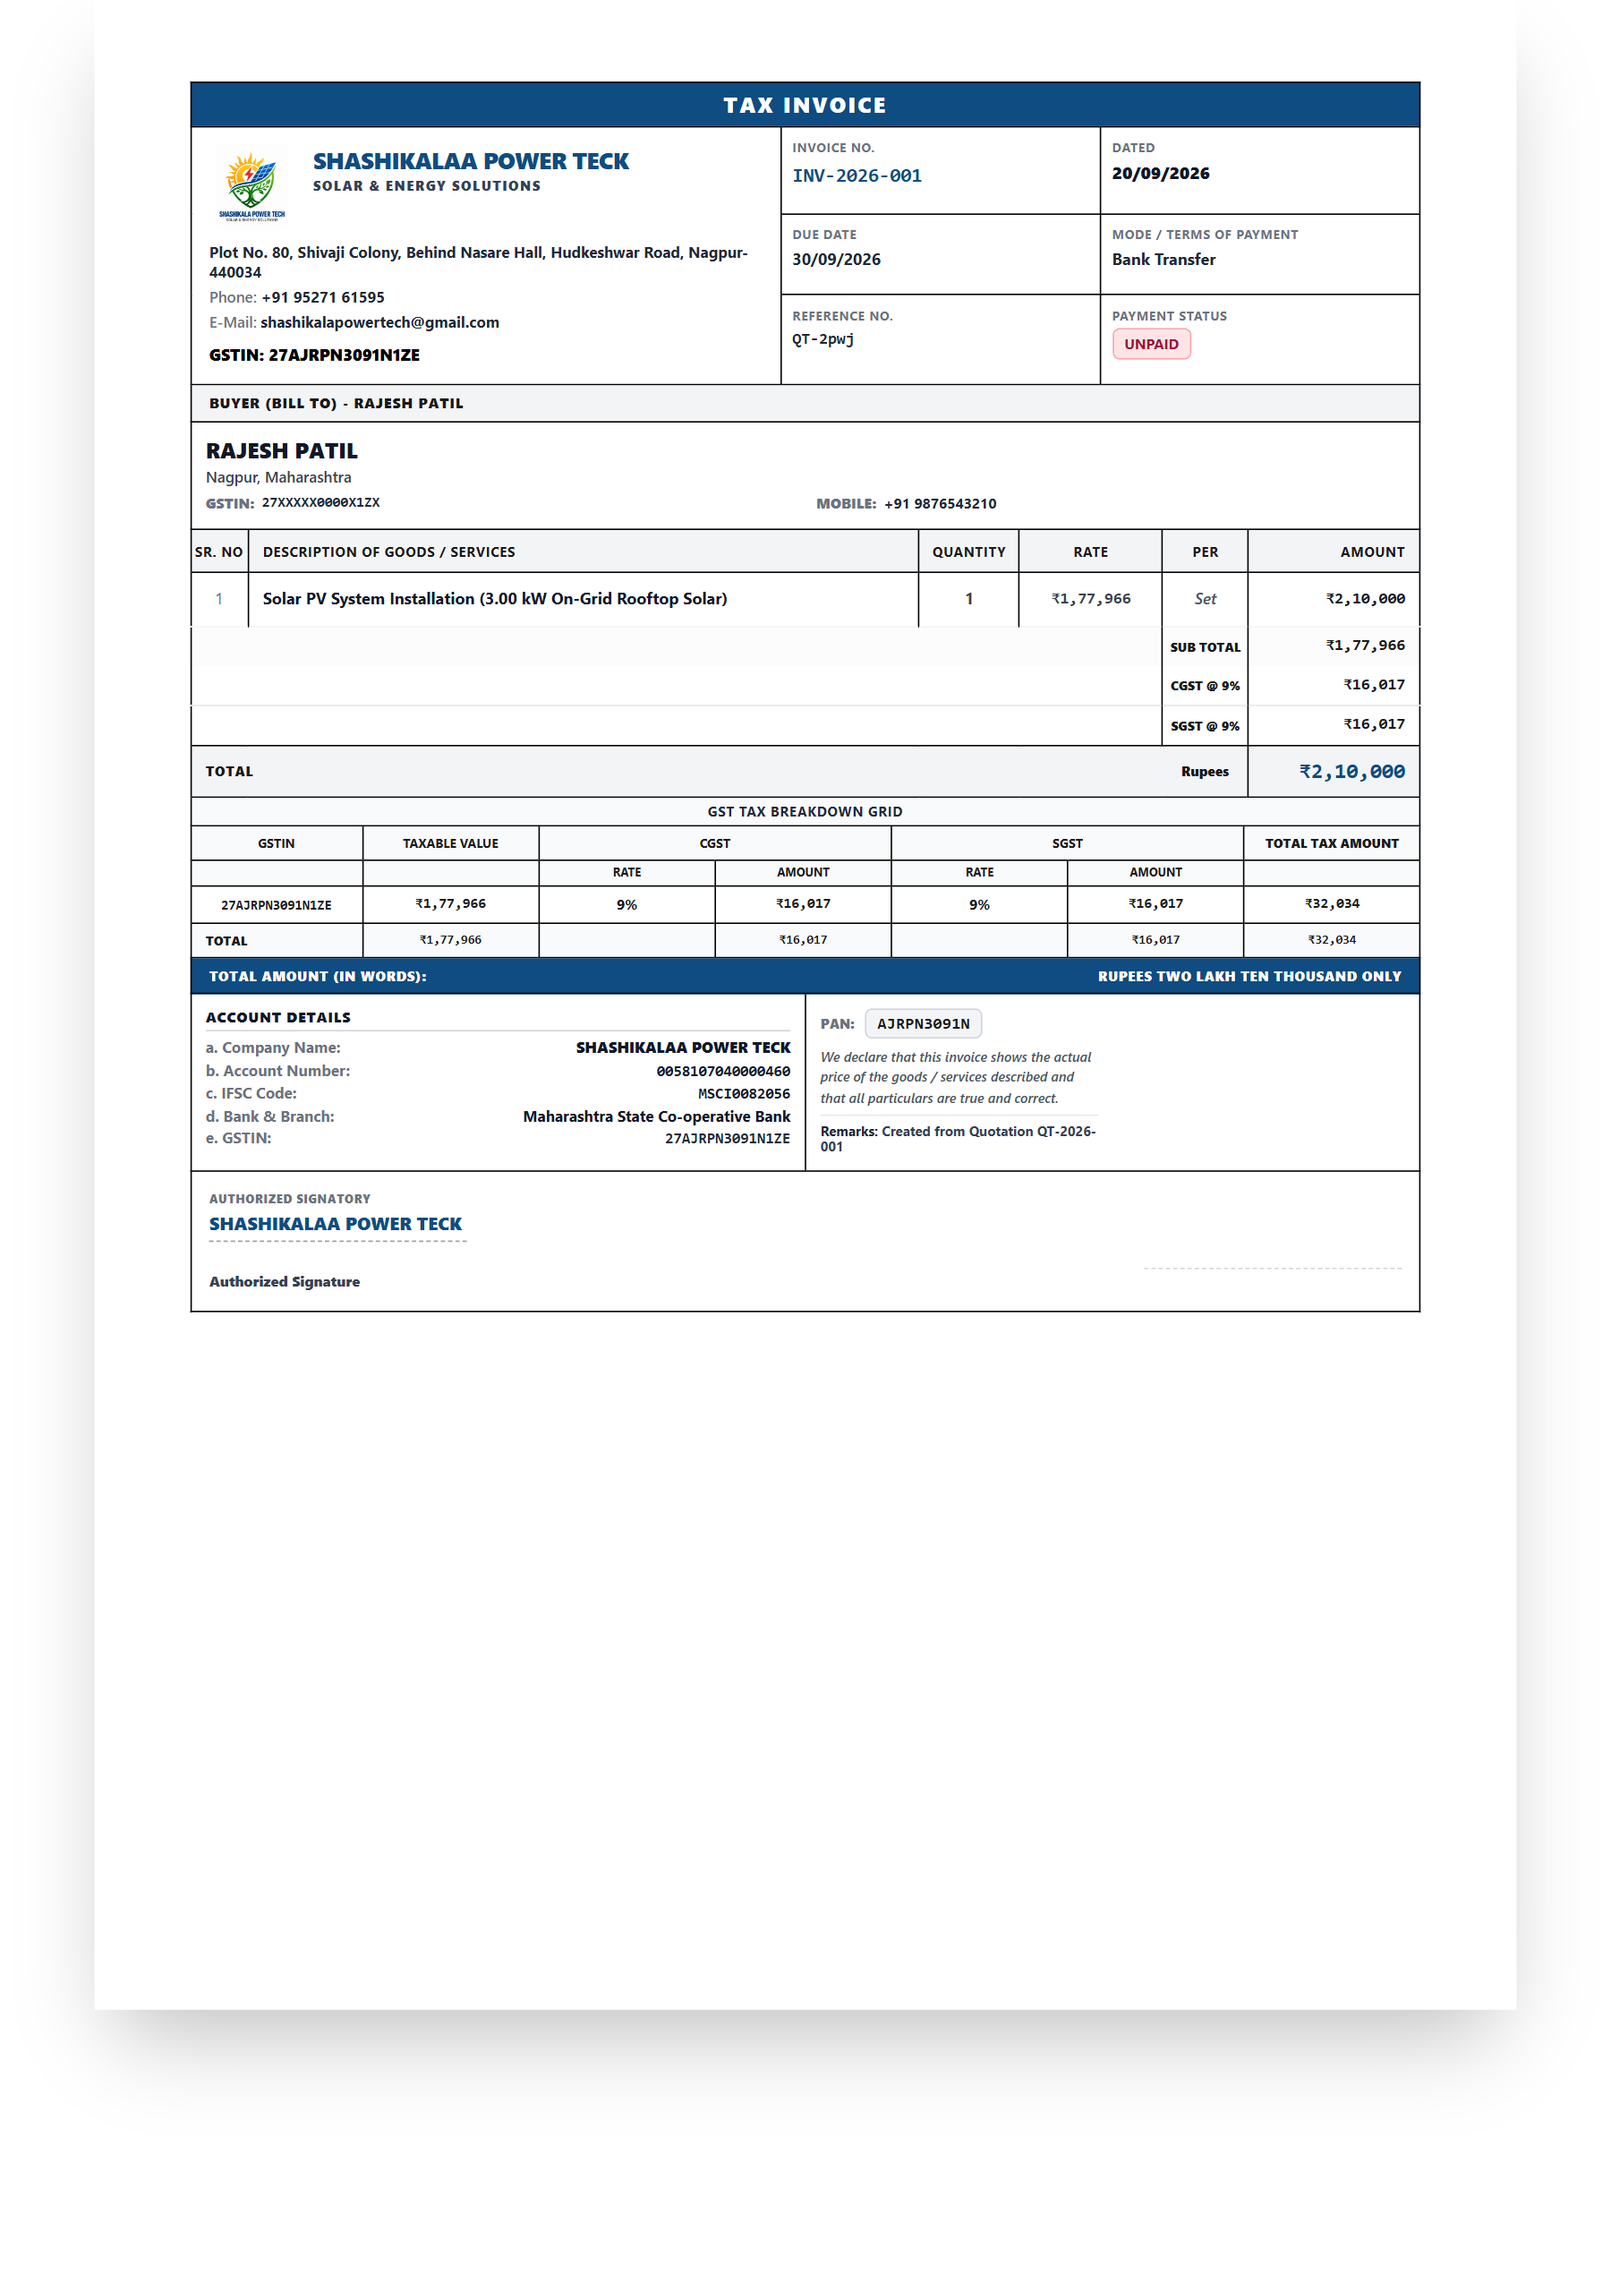
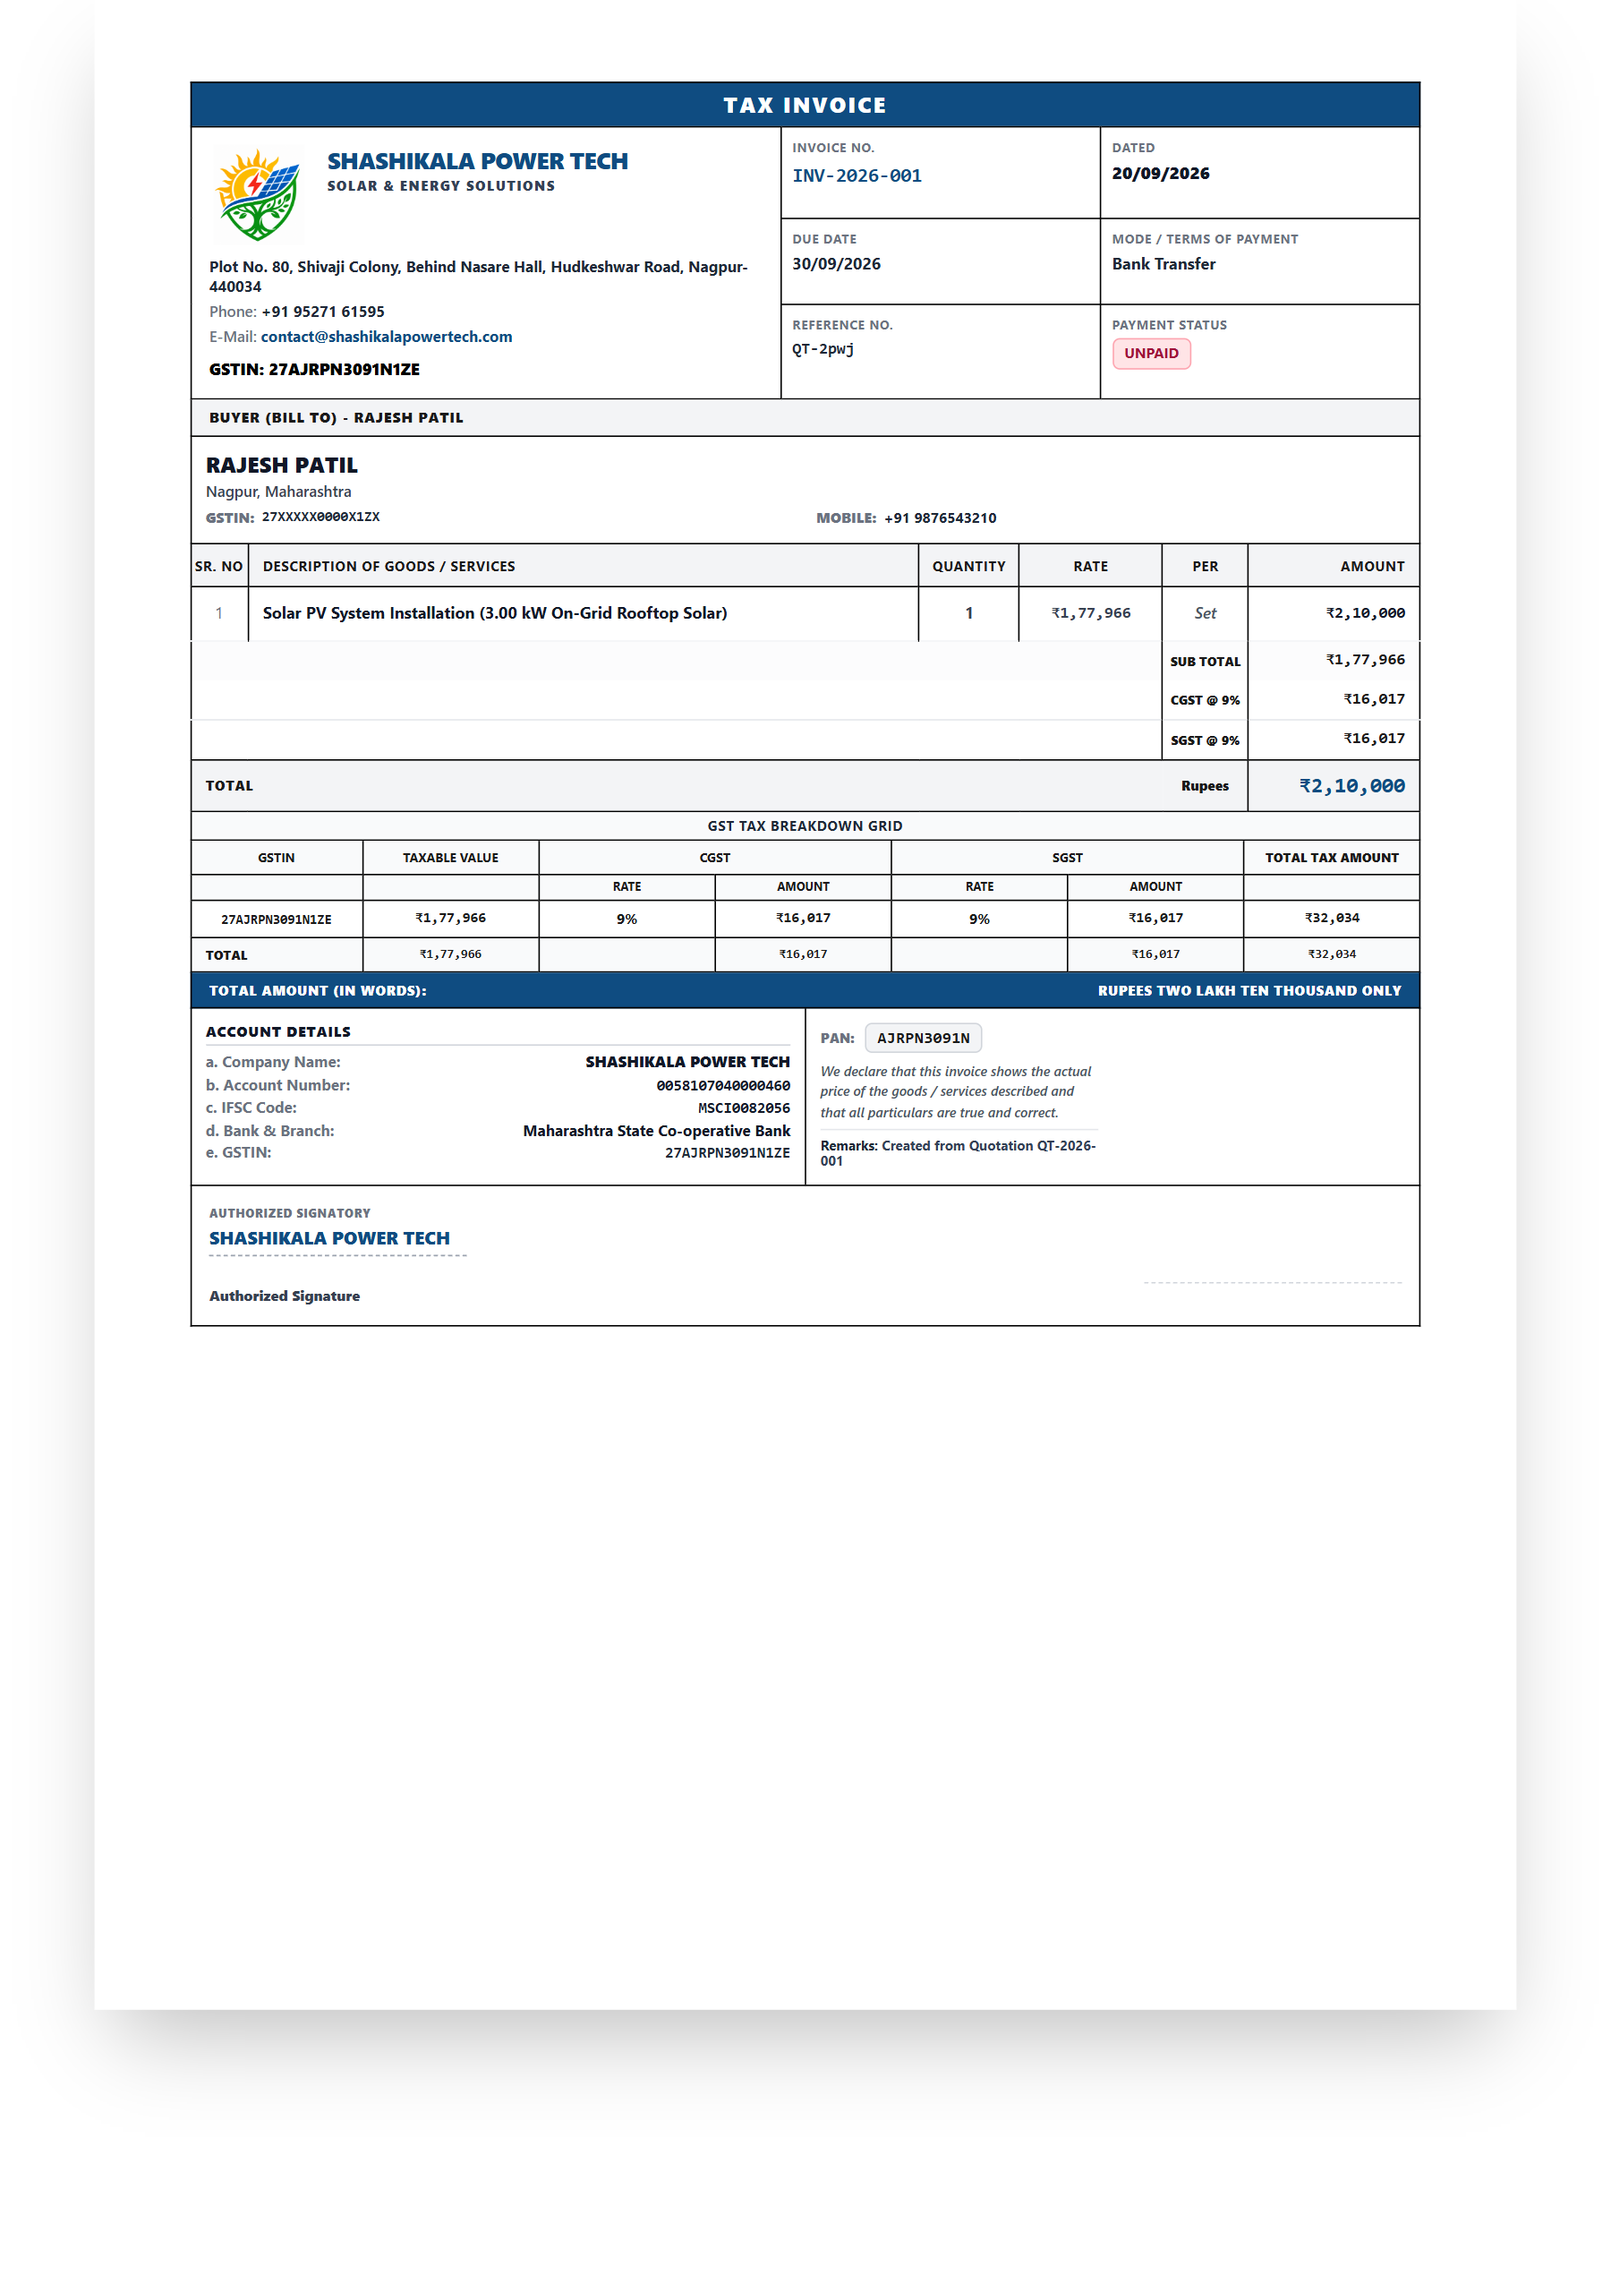
preview

diff --git a/src/components/QuotationPreview.tsx b/src/components/QuotationPreview.tsx
@@ -157,6 +157,16 @@ export default function QuotationPreview({
               <p className="text-[9px] text-slate-500 tracking-wide mt-0.5">
                 MNRE Empaneled Rooftop Solar EPC & Engineering Services
               </p>
+              <div className="flex items-center space-x-3 text-[8.5px] text-slate-600 mt-1 font-semibold">
+                <span className="flex items-center gap-1">
+                  <Phone className="w-2.5 h-2.5 text-[#F37021]" />
+                  <span>{phone}</span>
+                </span>
+                <span className="flex items-center gap-1 text-[#0F4C81]">
+                  <Mail className="w-2.5 h-2.5 text-[#F37021]" />
+                  <span>{email}</span>
+                </span>
+              </div>
             </div>
           </div>
 

diff --git a/src/components/InvoicePreview.tsx b/src/components/InvoicePreview.tsx
@@ -121,7 +121,8 @@ export default function InvoicePreview({
                     <span className="text-gray-500 font-semibold">Phone:</span> {phone}
                   </p>
                   <p>
-                    <span className="text-gray-500 font-semibold">E-Mail:</span> {email}
+                    <span className="text-gray-500 font-semibold">E-Mail:</span>{" "}
+                    <span className="text-[#0F4C81] font-bold">{email}</span>
                   </p>
                   <p className="font-black text-black pt-1 text-[9px]">
                     GSTIN: {gst}
